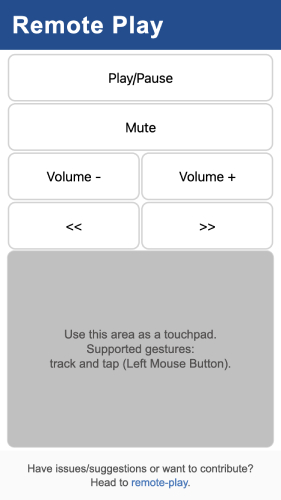
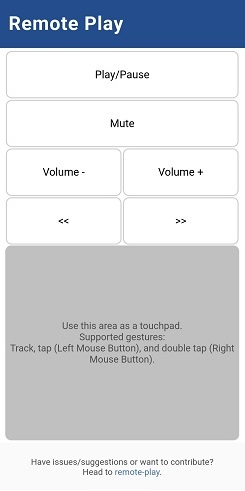
PR for Issue #27 (#29)
* PR for Issue #27

* Updated Commit For Issue #27

* -Updated readme
-Readability in index.html

* -Removed line break for conisitency.
-Updated screenshot to reflect changes

diff --git a/static/index.js b/static/index.js
@@ -3,10 +3,10 @@ const start = { x: 0, y: 0 };
 
 function callEndpoint(endpoint) {
   const xhr = new XMLHttpRequest();
-  xhr.open('get', endpoint, true);
+  xhr.open("get", endpoint, true);
   xhr.setRequestHeader(
-    'Content-Type',
-    'application/x-www-form-urlencoded; charset=UTF-8',
+    "Content-Type",
+    "application/x-www-form-urlencoded; charset=UTF-8"
   );
   xhr.send();
 }
@@ -22,19 +22,34 @@ function touchMove(ev) {
   const offsetX = ev.changedTouches[0].clientX - start.x;
   const offsetY = ev.changedTouches[0].clientY - start.y;
 
-  ws.send(JSON.stringify({ type: 'move', x: offsetX * 2, y: offsetY * 2 }));
+  ws.send(JSON.stringify({ type: "move", x: offsetX * 2, y: offsetY * 2 }));
 
   start.x = ev.changedTouches[0].clientX;
   start.y = ev.changedTouches[0].clientY;
 }
 
-document.addEventListener('DOMContentLoaded', (event) => {
-  document.getElementById('touchpad').addEventListener('touchstart', touchStart);
-  document.getElementById('touchpad').addEventListener('touchmove', touchMove);
-
-  const hammer = new Hammer(document.getElementById('touchpad'));
-  hammer.on('tap', (ev) => {
+document.addEventListener("DOMContentLoaded", event => {
+  document.getElementById("touchpad").addEventListener("touchstart", touchStart);
+  document.getElementById("touchpad").addEventListener("touchmove", touchMove);
+  var singleTap = new Hammer.Tap({
+    event: "tap",
+    taps: 1
+  });
+  var doubleTap = new Hammer.Tap({
+    event: "doubletap",
+    taps: 2
+  });
+  const hammer = new Hammer.Manager(document.getElementById("touchpad"));
+  hammer.add([doubleTap, singleTap]);
+  doubleTap.recognizeWith(singleTap);
+  doubleTap.requireFailure(singleTap);
+  singleTap.requireFailure(doubleTap);
+  hammer.on("tap", ev => {
     // left mouse button click
-    ws.send(JSON.stringify({ type: 'tap' }));
+    ws.send(JSON.stringify({ type: "tap" }));
+  });
+  hammer.on("doubletap", ev => {
+    // right mouse button click
+    ws.send(JSON.stringify({ type: "doubletap" }));
   });
 });

diff --git a/static/index.html b/static/index.html
@@ -41,8 +41,9 @@
       </button>
       <div class="touchpad" id="touchpad">
         <p>
-          Use this area as a touchpad.<br />Supported gestures:<br />track and
-          tap (Left Mouse Button).
+          Use this area as a touchpad.<br />
+          Supported gestures:<br />
+          Track, tap (Left Mouse Button), and double tap (Right Mouse Button).
         </p>
       </div>
     </main>

diff --git a/main.py b/main.py
@@ -29,6 +29,8 @@ async def websocket_endpoint(websocket: WebSocket):
                 pyautogui.moveRel(data['x'], data['y'])
             elif data['type'] == "tap":
                 pyautogui.leftClick()
+            elif data['type'] == "doubletap":
+                pyautogui.rightClick()
         except WebSocketDisconnect:
             print("Client disconnected.")
             break

diff --git a/README.md b/README.md
@@ -12,6 +12,7 @@ The following actions are supported:
 - Seek controls (<< and >>)
 - Mouse cursor movement
 - Left-mouse-button click using tapping
+- Right-mouse-button click using double tap
 
 ## Using Remote-Play
 
